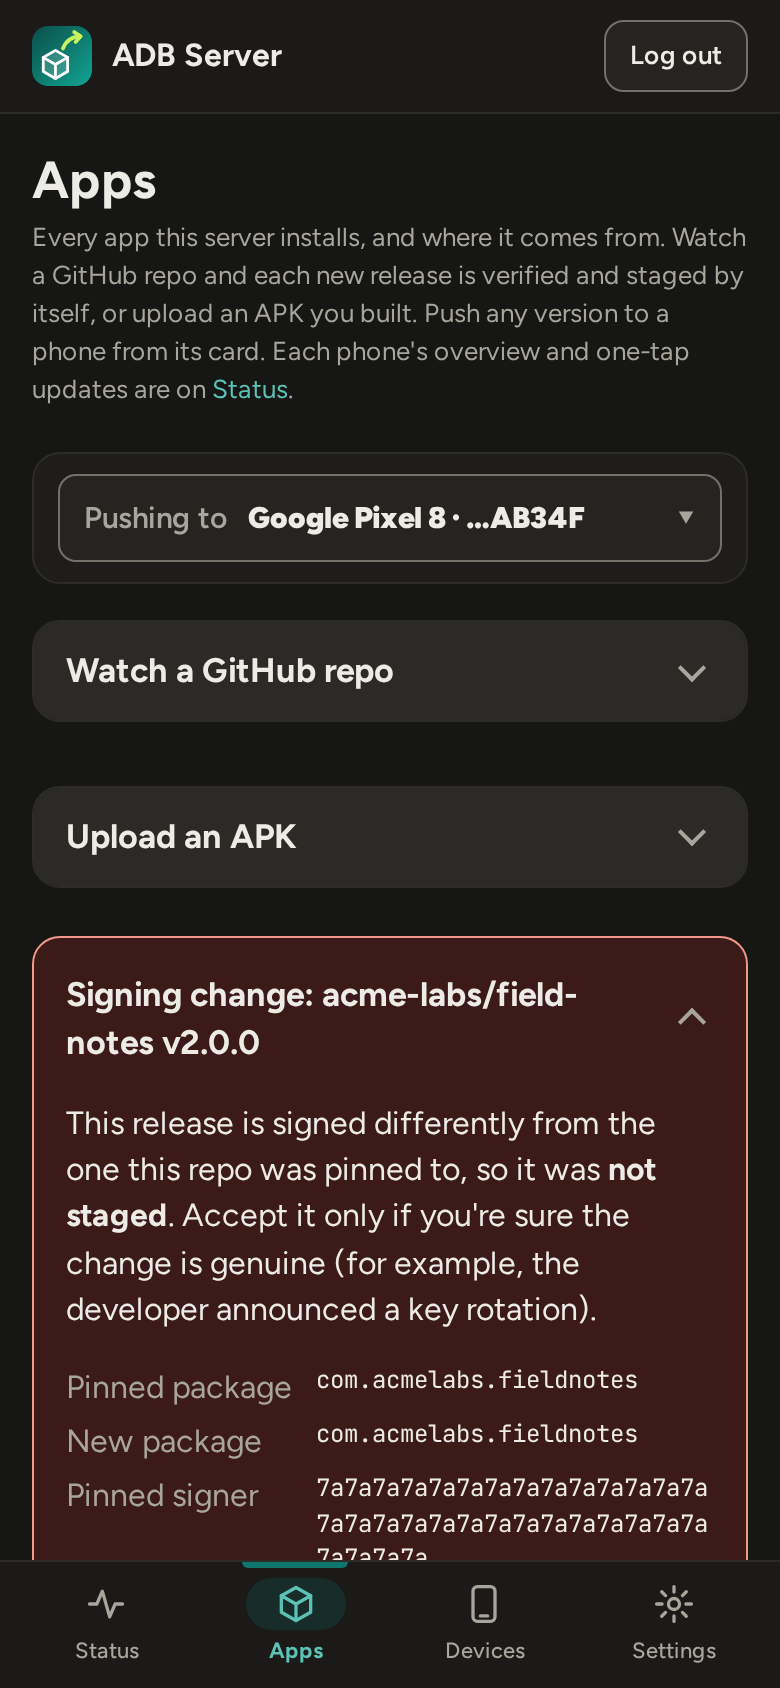
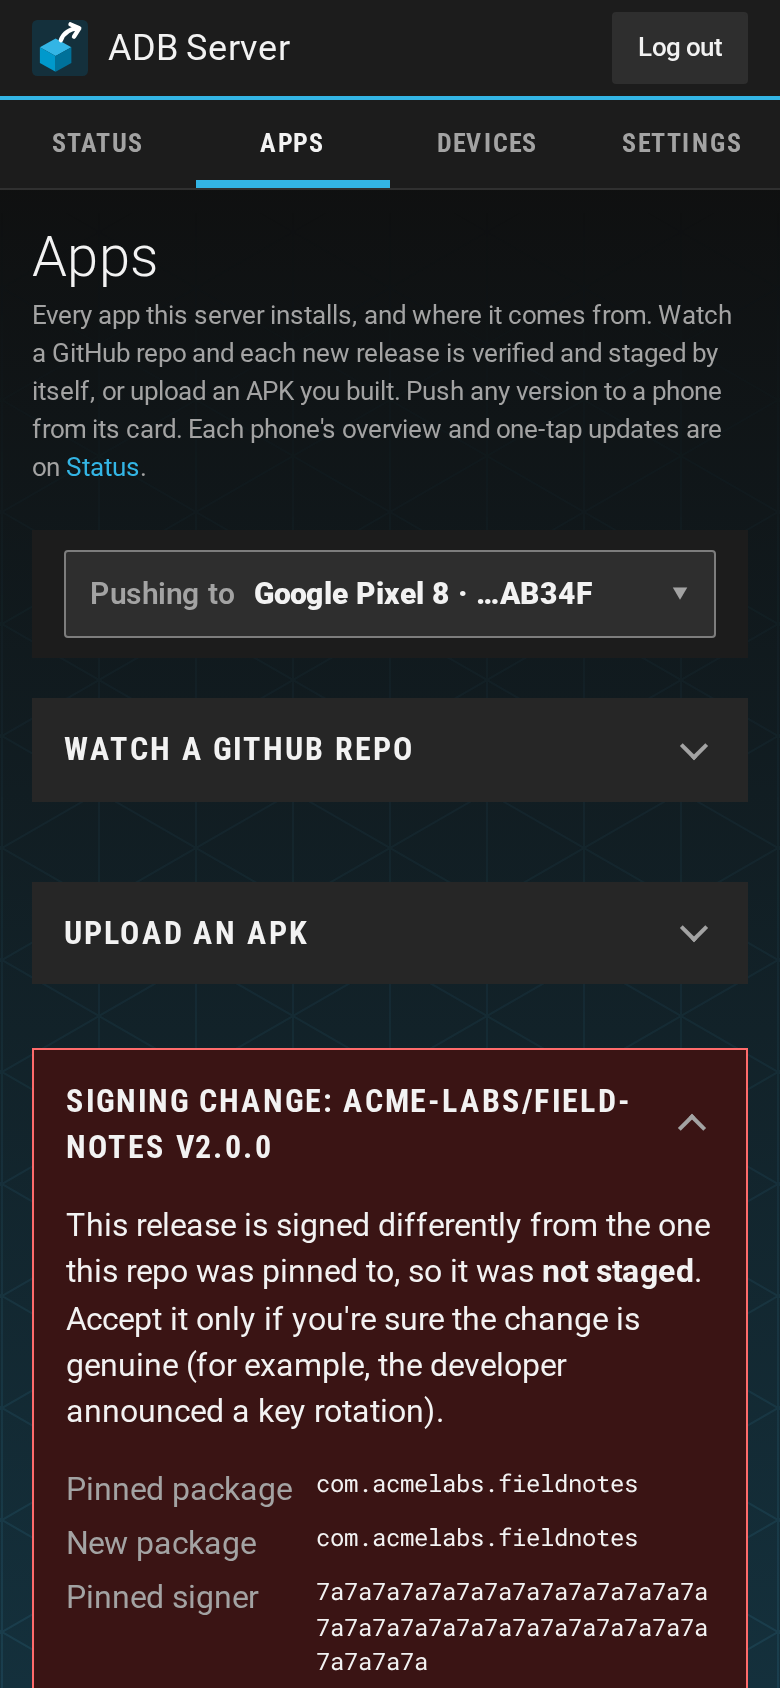
docs: describe the Holo look, retake the screenshots
The 3.9.0 changelog entry gains the redesign: the new look, the
lock-screen sign-in, the Apps tabs, tabs at the top on phones, the
auto-update switch, the failed-push wording, the Holo presets and the
fonts. Two older lines of the entry are corrected to match. The README's
Appearance, Apps and phone passages describe the app as it now is, and
all 17 screenshots are retaken from the seeded stack.

Claude-Session: https://claude.ai/code/session_01MeKcbpQLcs6oq8HmiLDchU

diff --git a/README.md b/README.md
@@ -260,8 +260,8 @@ top of the page.
 to confirm (what, to which device, replacing which version), and you stay on
 the row you pushed from. It shows a moving progress bar and **Installing
 2.4.0…**, and the page refreshes itself until the push is done; then the
-bar fills green with **✓ Installed 2.4.0 just now**, or red with **Push
-failed** and a link to why. A strip at the top also lists pushes running now
+bar fills green with **✓ Installed 2.4.0 just now**, or the row says **Push
+failed** with a link to why. A strip at the top also lists pushes running now
 and those that just finished, each with its log.
 
 **A debug build never goes over a signed install.** A phone that has an app
@@ -309,7 +309,7 @@ devices, and a device that already has that version or a newer one is skipped.
 Until you've added a source, trusted a device and installed something, the
 page shows a setup checklist instead.
 
-On a phone the nav is a tab bar along the bottom, rows are big enough to tap,
+On a phone the tabs sit in a row under the top bar, rows are big enough to tap,
 and Status opens with a summary (**1 update ready**, and an **Update**
 button for it, or **Update all** when a device has several) and a switcher
 between devices.
@@ -320,7 +320,9 @@ between devices.
 ### Apps: repos, builds and uploads
 
 Every app this server installs, where it comes from, and every version it
-has staged, on one page. **Pushing to ▾** at the top picks the device every
+has staged. Three tabs split it by kind, each with its count: **Watched
+repos**, **Test builds** and **Uploads**. One shows at a time; a link to a
+particular build or upload opens the tab it's in. **Pushing to ▾** at the top picks the device every
 **Push** on the page goes to (the most recently paired one to start), and
 the line above the repos sums up where they stand on it: how many are **to
 update**, **up to date**, **other version** or **not installed**.
@@ -333,8 +335,8 @@ installed**, plus which other devices have it). Its actions sit right there:
 **Delete** (every file of that version), **Builds**, **Check now**,
 **Pre-releases** and **Remove**. **Show details** opens the repo's details,
 the release notes, and every staged version and file, each with **Push
-this** and **Delete file**. Test builds and uploads follow, one card each
-under **Test builds** and **Uploads**, with the same face and actions. A test
+this** and **Delete file**. Test builds and uploads are one card each on
+their own tabs, with the same face and actions. A test
 build is marked **Test build**, with its branch and commit linked to the
 workflow run, so it can't be mistaken for a release. Devices are named by
 their nickname, else their model and the end of their serial (e.g. `Google
@@ -614,21 +616,27 @@ General shows both versions.
 
 ### Appearance
 
-**Settings → Appearance** sets one **accent** colour for the whole app: solid
-buttons, links, focus rings, the current page in the menu, the chosen filter
-or Settings tab, checkboxes and the edge of an open card. Status badges
+The app is drawn in the Holo look of Android's **Developer options**, the
+settings screen where adb is switched on: flat and square, capital tabs
+under an accent rule, thin numerals for versions, slab ON/OFF switches, and
+a sign-in that is a lock screen. `DESIGN.md` in the repo records the rules.
+
+**Settings → Appearance** sets one **accent** colour for the whole app: the
+rule under the top bar, the current tab, solid buttons, links, focus rings, a
+switch that's on, checkboxes and the version on offer. Status tags
 (Release, Test build, debug, errors) keep their own colours, because the
-colour is what they mean. Pick a preset or any custom colour; name a custom
+colour is what they mean. Pick a preset (Holo's blue, violet, green, orange
+and red, or graphite) or any custom colour; name a custom
 one and **Save as preset** to keep it. The accent is darkened or lightened per
 theme so text stays readable (WCAG AA contrast). The
 **Flashbang / Dark / OLED** buttons pick a theme for this browser: light,
 dark, or dark on true black. They sit in the top bar on wide screens and on
 **Settings → Appearance** everywhere; on a phone that page is the only place,
 so the top bar keeps just the app's name and **Log out**. Without one, the app follows your OS's
-light/dark setting. The layout adapts to phones and tablets (a bottom tab bar
-and touch-sized rows up to 960px wide). Text is set in Figtree, versions and
-hashes in JetBrains Mono, both served by the app itself (SIL Open Font
-License, in `app/static/fonts/`).
+light/dark setting. The layout adapts to phones and tablets (tabs under the
+top bar and touch-sized rows up to 960px wide). Text is set in Roboto,
+package names and hashes in Roboto Mono, both served by the app itself (SIL
+Open Font License, in `app/static/fonts/`).
 
 ### Two-factor sign-in
 

diff --git a/CHANGELOG.md b/CHANGELOG.md
@@ -2,6 +2,29 @@
 
 ## 3.9.0 — 2026-10-04
 
+- Changed: **a new look, "Developer options".** The app is redrawn in the
+  Holo style of the Android settings screen where adb is switched on: flat
+  and square, a top bar with capital tabs over an accent rule, each section
+  a plain panel with a heading band, thin numerals for versions. Rounded
+  cards, pills and letter avatars are gone. Every page sits on a fade to
+  blue-grey with a faint grid (plain black on OLED), and the logo is new.
+- Changed: **sign-in is a lock screen.** The app's name, two fields and an
+  unlock ring to press. A wrong password is reported the way adb reports a
+  refusal, in red under the name. The two-factor step looks the same.
+- Changed: **Apps has three tabs**: Watched repos, Test builds and Uploads,
+  each with its count, one showing at a time. A link to a particular build
+  or upload opens the tab it's in.
+- Changed: **on a phone the tabs are at the top**, under the bar, not along
+  the bottom of the screen.
+- Changed: **Auto-update is a switch** on each app's row on Status, reading
+  ON or OFF, in place of a button that said "Auto-update: off".
+- Changed: **a failed push says so in words**, with its link to why, and no
+  longer fills a red bar.
+- Changed: **the accent presets are Holo's own**: blue (the default), violet,
+  green, orange, red and graphite. If your accent was one of the old presets
+  it stays as a custom colour; nothing resets.
+- Changed: text is set in Roboto and Roboto Mono (still served by the app
+  itself) in place of Figtree and JetBrains Mono.
 - Fixed: **a phone can pair itself from its own browser.** The steps had you
   read three values off the phone's Settings and type them into this page,
   but Android cancels the pairing code the moment Settings leaves the
@@ -16,9 +39,8 @@
 - Changed: **on a phone, the theme is picked on Settings → Appearance.** The
   Flashbang / Dark / OLED buttons left the phone's top bar, which now shows
   the app's name and **Log out**. Wide screens keep them in the bar too.
-- Fixed: **the edges of fields and outlined buttons are visible.** Their
-  border was 1.3:1 to 1.45:1 against the control; it is now at least 3:1 in
-  all three themes.
+- Fixed: **the edge of a field is visible.** It was 1.3:1 to 1.45:1 against
+  the page; a field's underline is now at least 3:1 in all three themes.
 - Security: `oauthlib` moves to 4.0.0 for CVE-2026-49265 (a timing leak in
   its OAuth server code, which this app does not run; it arrives through
   the notification library).
@@ -33,9 +55,7 @@
 - Internal: CI skips the tests and the image builds when only docs changed,
   and tests on Python 3.14, the version the image runs.
 - Internal: a `DESIGN.md` records the tokens, type, shapes and rules the UI
-  follows, linted with `@google/design.md`. Corner radii, the dialog and menu
-  shadows and the preset swatches are tokens in `style.css` now; four
-  off-scale radii and two off-scale text sizes moved onto the scale.
+  follows, linted with `@google/design.md`.
 - Fixed: **a failed pairing comes back to the open form**, with the error
   inside it and a reminder that the code only works while the dialog is
   open, instead of a folded panel and a message at the top of the page.
